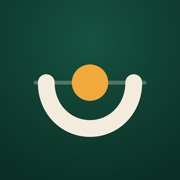
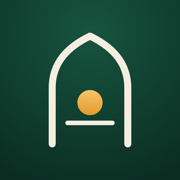
New mark: mihrab arch with the sun on the horizon; Light is the default theme

Changed region(s): [[0.1667, 0.1667, 0.8333, 0.8333]]

diff --git a/app.js b/app.js
@@ -36,8 +36,8 @@ const P = {
 };
 const icon = (n, s = 20) => `<svg viewBox="0 0 24 24" width="${s}" height="${s}" fill="none" stroke="currentColor" stroke-width="1.9" stroke-linecap="round" stroke-linejoin="round" aria-hidden="true">${P[n] || ''}</svg>`;
 const FLAME = '<svg viewBox="0 0 24 24" aria-hidden="true"><path fill="currentColor" d="M12.3 2.2c.5 2.9-.8 4.6-2.3 6.3-1.6 1.8-3.4 3.7-3.4 6.6A5.4 5.4 0 0 0 12 20.6a5.4 5.4 0 0 0 5.4-5.7c-.2-2.4-1.4-4-2.7-5.3.1 1.6-.5 2.8-1.5 3.3.5-4.1-.2-7.9-.9-10.7Z"/></svg>';
-// The mark: ن, the last letter of ميزان. A sun setting on the horizon into a scale pan.
-const MARK = (ink = 'currentColor') => `<svg viewBox="0 0 64 64" aria-hidden="true"><path d="M10 29.4h44" stroke="${ink}" stroke-opacity=".25" stroke-width="1.6" stroke-linecap="round"/><path d="M16.4 29.4c0 9.4 7 16.4 15.6 16.4s15.6-7 15.6-16.4" fill="none" stroke="${ink}" stroke-width="6" stroke-linecap="round"/><circle cx="32" cy="29.4" r="6.5" fill="#F2A93B"/></svg>`;
+// The mark: a mihrab arch with the sun resting on the horizon, which is also the beam of the scale (mizan).
+const MARK = (ink = 'currentColor') => `<svg viewBox="0 0 64 64" aria-hidden="true"><path d="M18.5 51.2V31.3C18.5 21.9 24.5 16.4 32 12.8C39.5 16.4 45.5 21.9 45.5 31.3V51.2" fill="none" stroke="${ink}" stroke-width="3.2" stroke-linecap="round" stroke-linejoin="round"/><circle cx="32" cy="36.5" r="4.8" fill="#EDA845"/><path d="M24 43.8H40" stroke="${ink}" stroke-width="2.4" stroke-linecap="round"/></svg>`;
 
 /* ---------- dates ---------- */
 const pad = n => String(n).padStart(2, '0');
@@ -1383,8 +1383,8 @@ function go(tab) {
 }
 function applyTheme() {
   const t = S ? S.set.theme : 'light';
-  if (t === 'auto') delete document.documentElement.dataset.theme; else document.documentElement.dataset.theme = t;
-  lsSet('mizan.theme', t === 'auto' ? null : t);
+  document.documentElement.dataset.theme = t;
+  lsSet('mizan.theme', t);
   const dim = t === 'dim' || (t === 'auto' && matchMedia('(prefers-color-scheme: dark)').matches);
   $('#themeColor').content = dim ? '#25282D' : '#F7F5F0';
 }

diff --git a/index.html b/index.html
@@ -15,7 +15,7 @@
 <link rel="preload" href="fonts/funnel-display.woff2" as="font" type="font/woff2" crossorigin>
 <link rel="preload" href="fonts/geist.woff2" as="font" type="font/woff2" crossorigin>
 <title>Mizan</title>
-<script>try{var t=localStorage.getItem('mizan.theme');if(t==='light'||t==='dim')document.documentElement.dataset.theme=t}catch(e){}</script>
+<script>var t='light';try{t=localStorage.getItem('mizan.theme')||'light'}catch(e){}document.documentElement.dataset.theme=t</script>
 <link rel="stylesheet" href="app.css">
 </head>
 <body>

diff --git a/sw.js b/sw.js
@@ -1,5 +1,5 @@
 // Keeps Mizan working offline. Network-first so updates show up on next open.
-const V = 'mizan-v2';
+const V = 'mizan-v3';
 const FILES = ['./', 'index.html', 'app.css', 'app.js', 'data.js', 'quran.js', 'foods.js', 'prayer.js', 'manifest.webmanifest', 'icon.svg', 'icon-180.png', 'icon-192.png', 'icon-512.png', 'fonts/funnel-display.woff2', 'fonts/amiri-arabic.woff2', 'fonts/indopak.woff2', 'fonts/geist.woff2'];
 
 self.addEventListener('install', e => {

diff --git a/app.css b/app.css
@@ -21,7 +21,7 @@
   --safe-t: env(safe-area-inset-top, 0px);
   color-scheme: light;
 }
-@media (prefers-color-scheme: dark) { :root:not([data-theme]) {
+@media (prefers-color-scheme: dark) { :root[data-theme="auto"] {
   --bg: #25282D; --bg2: #2E3238; --card: #30343A; --raise: #373B42;
   --ink: #EFEDE8; --ink2: #B6BAC1; --ink3: #8A8F97; --line: rgba(255,255,255,.08); --line2: rgba(255,255,255,.15);
   --brand: #9AD9B8; --good: #4CC98E;
